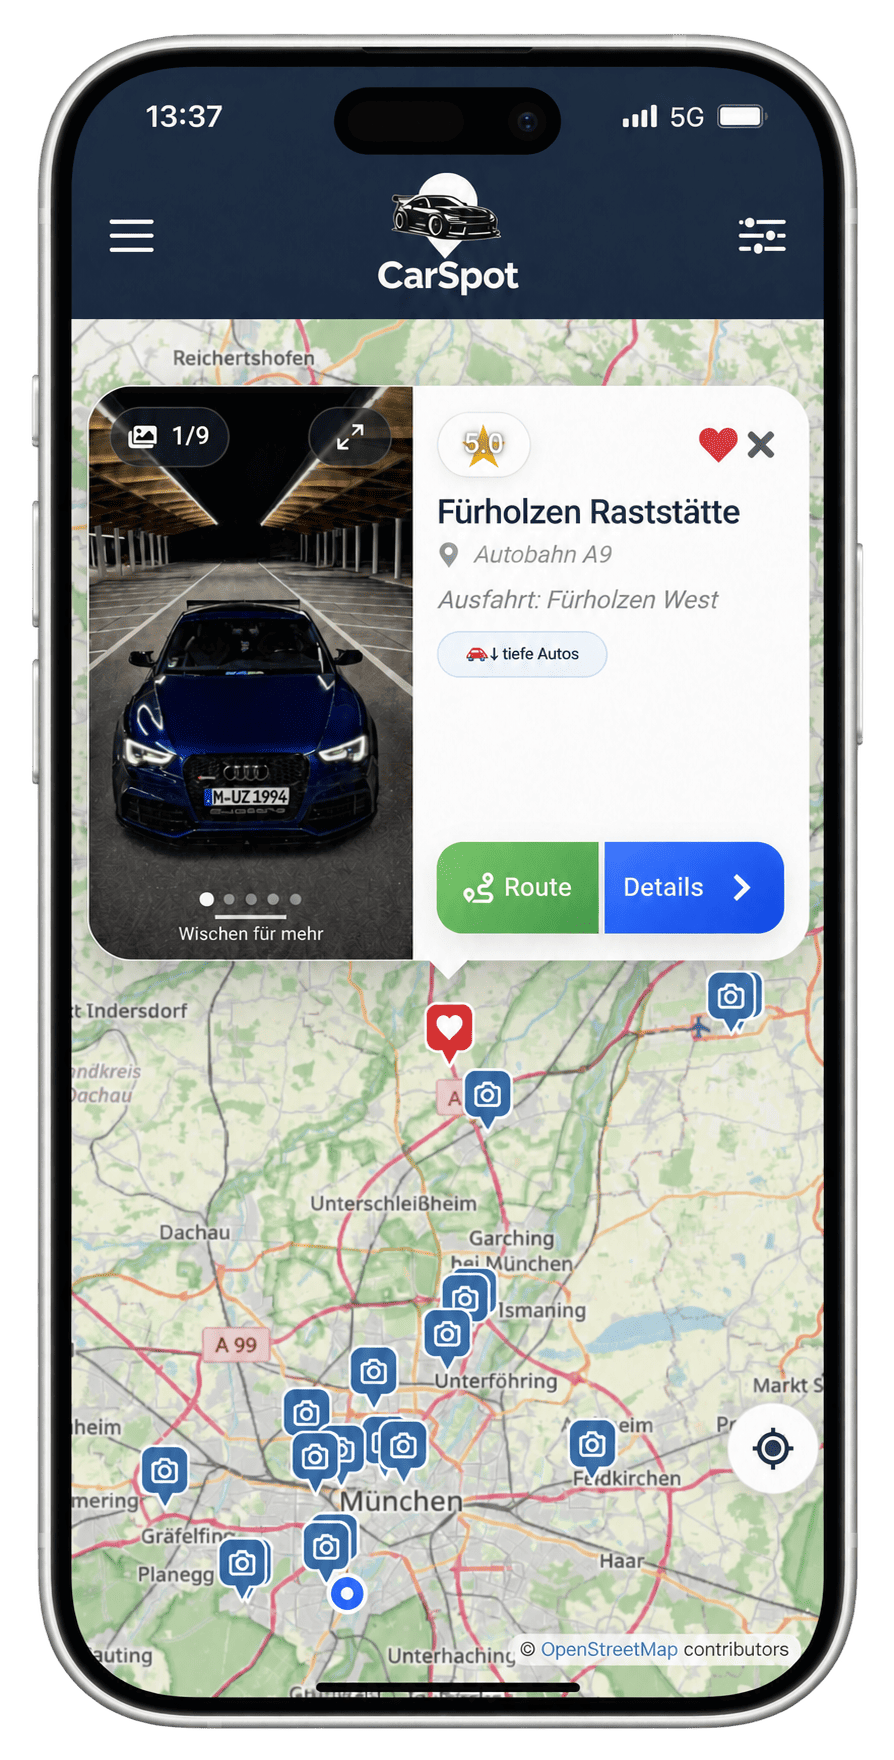
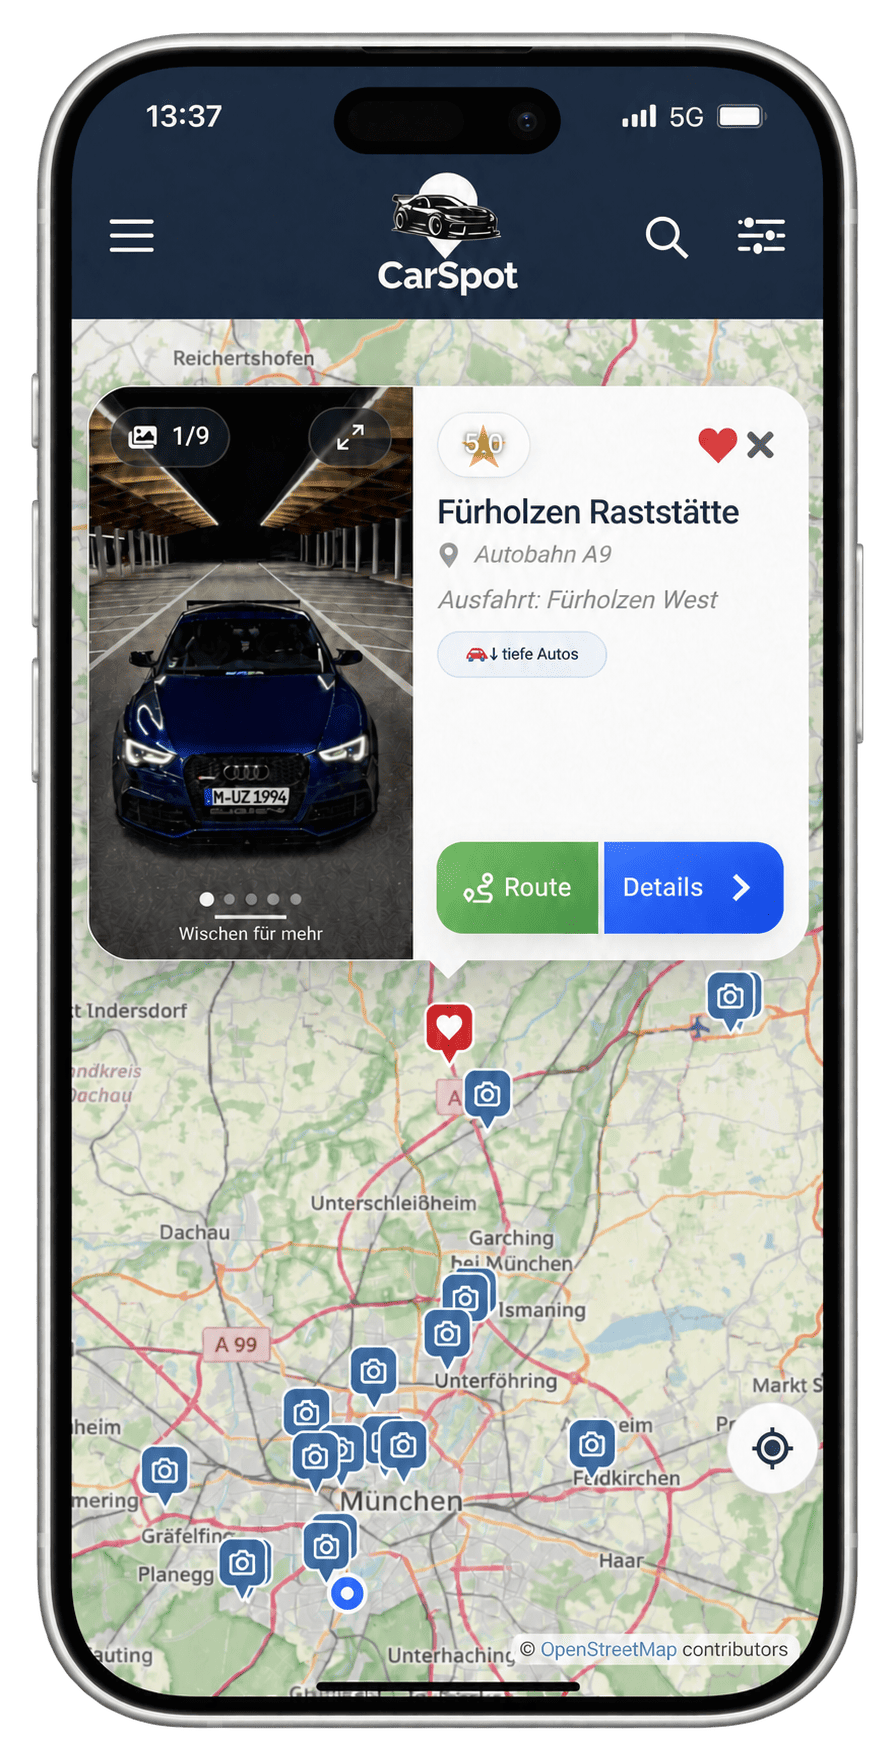
fixes

diff --git a/releases.html b/releases.html
@@ -53,10 +53,10 @@
     <h1 id="release-title">Neue Updates.<br/><span class="release-headline-accent">Mehr CarSpot.</span></h1>
     <p>Was gibt’s Neues? Entdecke alle Neuerungen, Verbesserungen und Fehlerbehebungen der letzten CarSpot-Versionen.</p>
   </div>
-  <div class="release-hero__version" aria-label="Aktuelle Version 2.3 vom 14. August 2026">
+  <div class="release-hero__version" aria-label="Aktuelle Version 2.4.0">
     <span class="release-label"><span class="release-dot" aria-hidden="true"></span> Aktuelle Version</span>
-    <span class="release-hero__number" aria-hidden="true">2.3</span>
-    <time datetime="2026-08-14">14. August 2026</time>
+    <span class="release-hero__number release-hero__number--full" aria-hidden="true">2.4.0</span>
+    <span class="release-hero__platforms">Android &amp; iOS</span>
   </div>
 </section>
 
@@ -69,9 +69,56 @@
   </div>
 
   <div class="release-list">
-    <article class="release-entry release-entry--current" id="version-2-3" aria-labelledby="version-2-3-title">
+    <article class="release-entry release-entry--current" id="version-2-4-0" aria-labelledby="version-2-4-0-title">
       <div class="release-entry__meta">
         <span class="release-tag"><span class="release-dot" aria-hidden="true"></span> Aktuell</span>
+        <h3 class="release-version--full" id="version-2-4-0-title"><span>Version</span>2.4.0</h3>
+      </div>
+      <div class="release-entry__body">
+        <h4 class="release-entry__title">Jetzt auch auf dem iPhone.</h4>
+        <p class="release-entry__summary">CarSpot ist jetzt auch für iOS verfügbar – mit neuen Benachrichtigungen, Share Cards und vielen Verbesserungen für Karte, Bedienung und Stabilität.</p>
+        <div class="release-changes release-changes--columns">
+          <section class="release-change release-change--new" aria-labelledby="release-240-new">
+            <h5 id="release-240-new"><span aria-hidden="true">+</span> Neu</h5>
+            <ul>
+              <li><strong>CarSpot für iOS:</strong> Endlich auch im Apple App Store verfügbar: Entdecke, speichere und teile besondere Foto-Spots jetzt auch auf deinem iPhone.</li>
+              <li><strong>Benachrichtigungen:</strong> Alle wichtigen Aktivitäten werden jetzt im Glocken-Menü angezeigt – inklusive Push-Benachrichtigungen für Kommentare, Bewertungen, Favoriten und neue Fotos.</li>
+              <li><strong>Zusätzliche Einstellungen:</strong> Eine neue Seitenleiste bündelt Kartenfilter, Sprache, Navigationseinstellungen für iOS sowie Datenschutz und Nutzungsbedingungen übersichtlich an einem Ort.</li>
+              <li><strong>Neue Spots in deiner Nähe:</strong> CarSpot informiert dich über neue Spots im Umkreis von 25, 50 oder 75 km.</li>
+              <li><strong>Übersichtlichere Karte:</strong> Nahe Spots werden ab einem höheren Zoomlevel in Clustern zusammengefasst. Neue und bereits angesehene Spots lassen sich leichter erkennen.</li>
+              <li><strong>Live-Aktualisierung:</strong> Neue oder entfernte Spots können direkt auf der Karte erscheinen, ohne dass du die App neu laden musst.</li>
+              <li><strong>Share Cards:</strong> Teile deine Spots einfacher als gestaltete CarSpot-Card – unter anderem für Instagram Stories bei Spoterstellung oder über das Menü „Meine Spots“.</li>
+              <li><strong>Rechtliches:</strong> Datenschutz und Nutzungsbedingungen findest du jetzt übersichtlich in einem gemeinsamen Bereich.</li>
+            </ul>
+          </section>
+          <section class="release-change release-change--improved" aria-labelledby="release-240-improved">
+            <h5 id="release-240-improved"><span aria-hidden="true">↑</span> Verbessert</h5>
+            <ul>
+              <li><strong>Performance und App-Start:</strong> CarSpot startet schneller und läuft besonders auf Android deutlich flüssiger.</li>
+              <li><strong>Offline-Nutzung:</strong> Das Verhalten bei schlechter oder fehlender Internetverbindung wurde verbessert.</li>
+              <li><strong>Meine Spots:</strong> Der Bereich wurde übersichtlicher, moderner und angenehmer zu bedienen.</li>
+              <li><strong>Meine Favoriten:</strong> Der Bereich wurde übersichtlicher, moderner und angenehmer zu bedienen.</li>
+              <li><strong>Spot-Erstellung:</strong> Der Erstellungsprozess wurde überarbeitet – inklusive besserer Bildauswahl und Bildausschnitte.</li>
+              <li><strong>Galerie, Details und Menüs:</strong> Spot-Details, Galerie, Popups und Sidebars wurden für mobile Bedienung und kleine Displays optimiert.</li>
+            </ul>
+          </section>
+          <section class="release-change release-change--fixed" aria-labelledby="release-240-fixed">
+            <h5 id="release-240-fixed"><span aria-hidden="true">✓</span> Behoben</h5>
+            <ul>
+              <li><strong>Standort:</strong> Mehrere Probleme mit Standortberechtigungen und der Standortermittlung auf Android und iOS wurden behoben.</li>
+              <li><strong>Kartenmarker:</strong> Ruckeln und Springen von Markern beim Zoomen und Verschieben der Karte wurde reduziert.</li>
+              <li><strong>Erstes Öffnen:</strong> Probleme beim ersten Öffnen von Popups, Menüs und Spot-Details wurden behoben.</li>
+              <li><strong>Darstellung:</strong> Verschiedene Layout- und Darstellungsfehler auf kleinen Displays wurden korrigiert.</li>
+              <li><strong>Bilder und Galerie:</strong> Fehler bei Galerie, Bild-Upload und gespeicherten Bildausschnitten wurden behoben.</li>
+            </ul>
+          </section>
+        </div>
+      </div>
+    </article>
+
+    <article class="release-entry" id="version-2-3" aria-labelledby="version-2-3-title">
+      <div class="release-entry__meta">
+        <span class="release-label">Vorheriges Update</span>
         <h3 id="version-2-3-title"><span>Version</span>2.3</h3>
         <time datetime="2026-08-14">14. August 2026</time>
       </div>

diff --git a/hero-slideshow.js b/hero-slideshow.js
@@ -6,14 +6,26 @@
   const layers = [...hero.querySelectorAll('.hero-background__layer')];
   if (layers.length !== 2) return;
 
+  const desktop = window.matchMedia('(min-width: 701px)');
   const reducedMotion = window.matchMedia('(prefers-reduced-motion: reduce)');
   const base = 'assets/hero/';
-  // Share the desktop scenery across screen sizes for a consistent hero.
+  // Each scene has an independently composed portrait and landscape image.
   const scenes = [
-    'alpine', 'coast', 'urban', 'skyline', 'bridge', 'forest',
-    'industrial', 'harbor', 'winter'
-  ].map(scene => `desktop-${scene}.avif`);
-  const imageUrl = scene => `${base}${scene}`;
+    ['alpine', '06', '50% 0%'],
+    ['coast', '01', '65% 0%'],
+    ['urban', '03', '40% 0%'],
+    ['skyline', '02', '78% 0%'],
+    ['bridge', '04', '50% 0%'],
+    ['forest', '05', '65% 0%'],
+    ['industrial', '07', '50% 0%'],
+    ['harbor', '08', '55% 0%'],
+    ['winter', '09', '70% 0%']
+  ].map(([name, portrait, focus]) => ({
+    desktop: `desktop-${name}.avif`,
+    mobile: `mobile-${portrait}.avif`,
+    focus,
+  }));
+  const imageUrl = scene => `${base}${desktop.matches ? scene.desktop : scene.mobile}`;
   let currentScene = scenes[0];
   let activeLayer = 0;
   let order = [];
@@ -56,10 +68,10 @@
   }
 
   function setLayer(layer, scene) {
-    // Keep the picture source and fallback in sync at every screen size.
-    const url = imageUrl(scene);
-    layer.querySelector('source').srcset = url;
-    layer.querySelector('img').src = url;
+    // The browser selects the matching format, including during resizing.
+    layer.querySelector('source').srcset = `${base}${scene.desktop}`;
+    layer.querySelector('img').src = `${base}${scene.mobile}`;
+    layer.style.setProperty('--hero-mobile-focus', scene.focus);
   }
 
   function canPlay() {
@@ -102,6 +114,7 @@
 
   document.addEventListener('visibilitychange', updatePlayback);
   reducedMotion.addEventListener('change', updatePlayback);
+  desktop.addEventListener('change', updatePlayback);
   if ('IntersectionObserver' in window) {
     const observer = new IntersectionObserver(entries => {
       inView = entries[0].isIntersecting;

diff --git a/releases.css b/releases.css
@@ -128,7 +128,8 @@
   line-height: 1;
   letter-spacing: -.06em;
 }
-.release-hero__version time { color: #b7c7dc; font-size: 12px; }
+.release-hero__number.release-hero__number--full { font-size: 60px; }
+.release-hero__version time, .release-hero__platforms { color: #b7c7dc; font-size: 12px; }
 
 .release-history { margin: 64px 0; scroll-margin-top: 28px; }
 .release-history__head {
@@ -227,6 +228,7 @@
   font-weight: 400;
   letter-spacing: 0;
 }
+.release-entry h3.release-version--full { font-size: clamp(38px, 4.5vw, 52px); }
 .release-entry time { color: #a6b2c4; font-size: 12px; }
 .release-entry__body { min-width: 0; padding-left: 32px; border-left: 1px solid #ffffff12; }
 .release-entry__title {
@@ -261,6 +263,20 @@
 }
 .release-change--new h5 > span,
 .release-change--fixed h5 > span { border-color: #82ffd230; background: #82ffd20a; color: var(--brand-2); }
+.release-change--new h5 > span { position: relative; font-size: 0; }
+.release-change--new h5 > span::before,
+.release-change--new h5 > span::after {
+  content: '';
+  position: absolute;
+  top: 50%;
+  left: 50%;
+  width: 10px;
+  height: 2px;
+  border-radius: 1px;
+  background: currentColor;
+  transform: translate(-50%, -50%);
+}
+.release-change--new h5 > span::after { transform: translate(-50%, -50%) rotate(90deg); }
 .release-change ul { margin: 0; padding-left: 16px; color: #c9d4e3; font-size: 13px; line-height: 1.8; }
 .release-change li { padding-left: 3px; }
 .release-change li + li { margin-top: 12px; }

diff --git a/impressum.html b/impressum.html
@@ -10,6 +10,7 @@
     <link rel="stylesheet" href="cookie-banner.css" />
     <link href="site-shell.css" rel="stylesheet"/>
     <link href="facelift.css" rel="stylesheet"/>
+    <link href="hero-slideshow.css" rel="stylesheet"/>
     <link href="privacy.css" rel="stylesheet"/>
     <link href="assets/carspot-logo.png" rel="icon"/>
 </head>
@@ -36,7 +37,10 @@
       <main class="section legal-page" id="main" aria-labelledby="legal-title">
         <h1 id="legal-title">Impressum</h1>
 
-        <p><strong>Angaben gemäß § 5 DDG</strong></p>
+        <p>
+          <strong>Anbieter und Verantwortlicher für den Inhalt</strong><br />
+          Angaben gemäß § 5 DDG und § 18 Abs. 2 MStV
+        </p>
 
         <p>
           Murat Uzundag<br />
@@ -49,15 +53,6 @@
         <p>
           E-Mail:
           <a href="mailto:info@carspot.gg">info@carspot.gg</a>
-        </p>
-
-        <p>
-          <strong>Verantwortlich für den Inhalt nach § 18 Abs. 2 MStV</strong>
-        </p>
-        <p>
-          Murat Uzundag<br />
-          Mülhauser Straße 10<br />
-          81379 München
         </p>
 
         <h2>Verbraucherstreitbeilegung</h2>

diff --git a/hero-slideshow.css b/hero-slideshow.css
@@ -1,11 +1,13 @@
 /* A vivid cartographic canvas with contours, routes and shooting spots. */
 .home-page,
-.release-page {
+.release-page,
+.legal-document {
   background-color: #0b1321;
 }
 
 .home-page::before,
-.release-page::before {
+.release-page::before,
+.legal-document::before {
   position: absolute;
   inset: 0;
   background:
@@ -17,7 +19,8 @@
 }
 
 .home-page::after,
-.release-page::after {
+.release-page::after,
+.legal-document::after {
   display: block;
   position: absolute;
   inset: 0;
@@ -104,6 +107,15 @@
 }
 
 @media (max-width: 700px) {
+  .home-hero--slideshow .hero-background__layer img {
+    object-fit: cover;
+    object-position: var(--hero-mobile-focus, 50% 0%);
+  }
+  .home-hero--slideshow .hero-background__shade {
+    background:
+      linear-gradient(180deg, #081527b8, #08152780 30%, #08152726 58%, #0b0f1ae6 100%),
+      linear-gradient(90deg, #08152726, transparent 70%);
+  }
   .release-page::before {
     background:
       radial-gradient(ellipse 110% 300px at 0% 0%, #548ce84d, transparent 75%),

diff --git a/privacy.css b/privacy.css
@@ -1,21 +1,4 @@
-/* Shared legal-page styling, aligned with the CarSpot release page. */
-.legal-document { background-color: #0b1321; }
-.legal-document::before {
-  background:
-    radial-gradient(ellipse 70% 540px at 0% 0%, #548ce833, transparent 75%),
-    radial-gradient(ellipse 55% 640px at 100% 35%, #5be0c31a, transparent 75%),
-    linear-gradient(145deg, #111f33, #0b1423 50%, #102231);
-}
-.legal-document::after {
-  display: block;
-  position: absolute;
-  inset: 0;
-  background: radial-gradient(circle, #92c6ec59 1px, transparent 1px) 0 0 / 28px 28px;
-  opacity: .3;
-  mask-image: linear-gradient(180deg, #000, #0005 65%, transparent);
-  -webkit-mask-image: linear-gradient(180deg, #000, #0005 65%, transparent);
-  will-change: auto;
-}
+/* Shared legal-page layout; the page canvas comes from hero-slideshow.css. */
 .legal-document .container > header { border-bottom: 0; }
 .legal-document .container > header .logo-badge {
   width: 80px; height: 80px; flex-basis: 80px;

diff --git a/index.html b/index.html
@@ -50,11 +50,11 @@
 <div class="hero-background" aria-hidden="true">
 <picture class="hero-background__layer is-active">
 <source media="(min-width: 701px)" srcset="assets/hero/desktop-alpine.avif"/>
-<img src="assets/hero/desktop-alpine.avif" alt="" decoding="async" fetchpriority="high"/>
+<img src="assets/hero/mobile-06.avif" alt="" decoding="async" fetchpriority="high"/>
 </picture>
 <picture class="hero-background__layer">
 <source media="(min-width: 701px)" srcset="assets/hero/desktop-alpine.avif"/>
-<img src="assets/hero/desktop-alpine.avif" alt="" decoding="async"/>
+<img src="assets/hero/mobile-06.avif" alt="" decoding="async"/>
 </picture>
 <div class="hero-background__shade"></div>
 </div>

diff --git a/datenschutz.html b/datenschutz.html
@@ -10,6 +10,7 @@
     <link rel="stylesheet" href="cookie-banner.css" />
     <link href="site-shell.css" rel="stylesheet"/>
     <link href="facelift.css" rel="stylesheet"/>
+    <link href="hero-slideshow.css" rel="stylesheet"/>
     <link href="privacy.css" rel="stylesheet"/>
     <link href="assets/carspot-logo.png" rel="icon"/>
 </head>

diff --git a/assets/hero/desktop-generation.md b/assets/hero/desktop-generation.md
@@ -4,6 +4,12 @@ Six missing motifs were freshly generated with the built-in Imagegen tool, using
 
 Actual generated and delivered dimensions: 1672 x 941 px, approximately 16:9, matching the existing landscape assets. The requested generation size was 2560 x 1440; the tool returned the dimensions above. No portrait crops or upscaled mobile files are used on desktop. Assets were encoded as AVIF, quality 65, without resizing.
 
+## Responsive presentation
+
+At viewport widths up to 700 px, the slideshow uses the existing 900 x 1599 px portrait assets. Wider viewports use the landscape assets. Both formats represent the same scene, and the browser switches formats when the viewport crosses the breakpoint. Images keep their native proportions through `object-fit: cover`; mobile focal points retain the road, bridge, skyline or other main subject. The portrait assets are used for the initial image even without JavaScript, and the slideshow preloads only the format needed for the current viewport.
+
+Scene pairs: alpine/mobile-06, coast/mobile-01, urban/mobile-03, skyline/mobile-02, bridge/mobile-04, forest/mobile-05, industrial/mobile-07, harbor/mobile-08, winter/mobile-09.
+
 ## Final prompts
 
 ### desktop-skyline.avif
